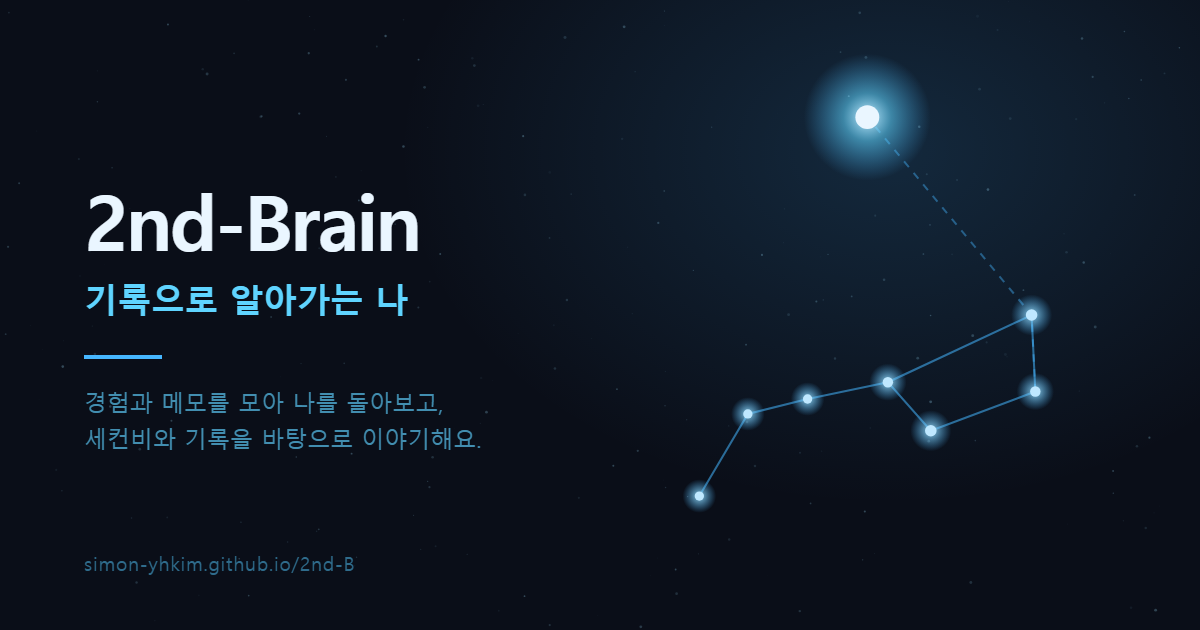
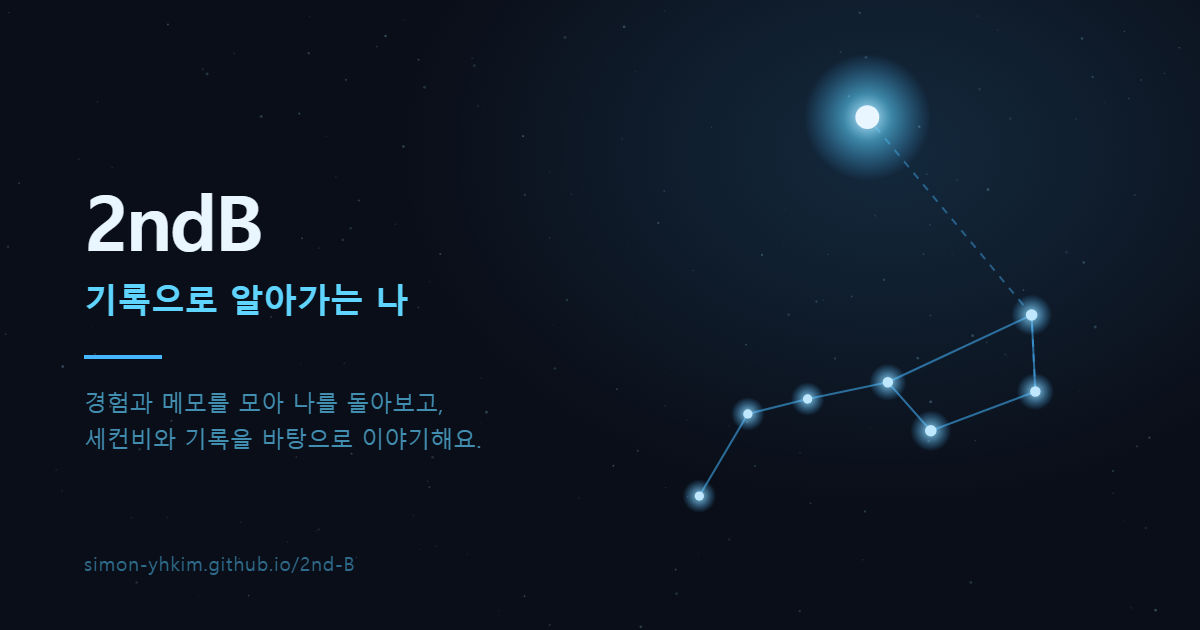
fix(web): align public brand metadata with 2ndB

Changed region(s): [[0.185, 0.3016, 0.37, 0.4222]]

diff --git a/public/landing/index.html b/public/landing/index.html
@@ -11,7 +11,17 @@
   <meta http-equiv="Pragma" content="no-cache" />
   <meta http-equiv="Expires" content="0" />
   <meta name="viewport" content="width=device-width, initial-scale=1.0" />
-  <title>2nd-Brain — landing structure study</title>
+  <title>2ndB · landing structure study</title>
+  <meta name="description" content="A structure and interaction study for the 2ndB landing page." />
+  <meta property="og:type" content="website" />
+  <meta property="og:site_name" content="2ndB" />
+  <meta property="og:title" content="2ndB · landing structure study" />
+  <meta property="og:description" content="A structure and interaction study for the 2ndB landing page." />
+  <meta property="og:url" content="https://simon-yhkim.github.io/2nd-B/landing/" />
+  <meta property="og:image" content="https://simon-yhkim.github.io/2nd-B/og-image.png" />
+  <meta name="twitter:card" content="summary_large_image" />
+  <meta name="twitter:title" content="2ndB · landing structure study" />
+  <meta name="twitter:description" content="A structure and interaction study for the 2ndB landing page." />
 
   <!--
     Landing-page clone (structure / interaction / aesthetic study).
@@ -53,11 +63,11 @@
       <div class="view view--info" data-view-panel="info" hidden>
         <p class="contact">
           <a href="https://simon-yhkim.github.io/2nd-B/">simon-yhkim.github.io/2nd-B</a><br />
-          <span>2nd-Brain</span>
+          <span>2ndB</span>
         </p>
         <div class="bio">
           <p>
-            A structure and interaction study for the 2nd-Brain landing page,
+            A structure and interaction study for the 2ndB landing page,
             rebuilt from scratch with a floating character mascot as the
             centrepiece. Nobody is described on this page: the panel exists to
             test layout and drag behaviour, and the text below is filler.

diff --git a/src/lib/site-meta.ts b/src/lib/site-meta.ts
@@ -5,10 +5,10 @@
 // set in the root layout (what a browser tab shows). Before this file the
 // wording was pasted six times in +html.tsx alone.
 //
-// The wording is the reviewed store draft
-// (docs/store-copy/drafts.json :: ko.appStoreSubtitle / ko.playShort) so the
-// site, the listing and the app say the same thing.
-export const SITE_TITLE = "2nd-Brain · 기록으로 알아가는 나";
+// The tagline follows the reviewed store draft
+// (docs/store-copy/drafts.json :: ko.appStoreSubtitle / ko.playShort).
+// The public web brand is 2ndB; store listing changes have their own review.
+export const SITE_TITLE = "2ndB · 기록으로 알아가는 나";
 export const SITE_DESCRIPTION =
   "경험과 메모를 모아 나를 돌아보고, 세컨비와 기록을 바탕으로 이야기해요.";
 

diff --git a/src/app/__tests__/web-title-first.test.ts b/src/app/__tests__/web-title-first.test.ts
@@ -10,7 +10,7 @@
 //
 // 그래서 루트 레이아웃이 같은 helmet 인스턴스에 직접 제목을 먹인다(SITE_HEAD).
 // 대조 실험 2026-09-08: 같은 트리에서 _layout.tsx 만 바꿔 두 번 export —
-// 바이트 38 이 before 는 빈 문자열, after 는 "2nd-Brain · 기록으로 알아가는 나".
+// 바이트 38 이 before 는 빈 문자열, after 는 SITE_TITLE.
 //
 // ⚠ 이 검사가 지키는 것은 "SITE_HEAD 가 **두 분기 모두**에 있다" 이다.
 // 한쪽에만 두면 그 분기에서 다시 빈 제목이 나가고, export 가 어느 분기에

diff --git a/src/app/+html.tsx b/src/app/+html.tsx
@@ -121,7 +121,7 @@ export default function Root({ children }: PropsWithChildren) {
         <title>{SITE_TITLE}</title>
         <meta name="description" content={SITE_DESCRIPTION} />
         <meta property="og:type" content="website" />
-        <meta property="og:site_name" content="2nd-Brain" />
+        <meta property="og:site_name" content="2ndB" />
         <meta property="og:locale" content="ko_KR" />
         <meta property="og:title" content={SITE_TITLE} />
         <meta property="og:description" content={SITE_DESCRIPTION} />

diff --git a/design/og-card/og-card.html b/design/og-card/og-card.html
@@ -61,7 +61,7 @@
   </svg>
 
   <div class="txt">
-    <p class="brand">2nd-Brain</p>
+    <p class="brand">2ndB</p>
     <p class="tag">기록으로 알아가는 나</p>
     <div class="rule"></div>
     <p class="desc">경험과 메모를 모아 나를 돌아보고,<br>세컨비와 기록을 바탕으로 이야기해요.</p>
